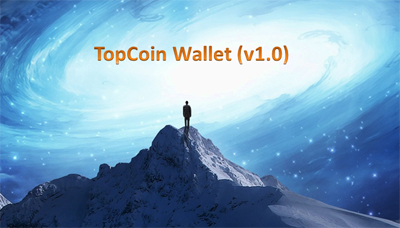
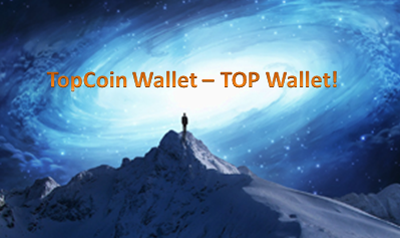
modified:   src/checkpoints.cpp 	modified:   src/qt/overviewpage.cpp 	modified:   src/qt/res/images/wallet.png 	modified:   src/version.h

diff --git a/src/checkpoints.cpp b/src/checkpoints.cpp
@@ -22,7 +22,9 @@ namespace Checkpoints
[7 lines of base64/hex data omitted]
 			;
 
 

diff --git a/src/version.h b/src/version.h
@@ -13,7 +13,7 @@
 
 // These need to be macro's, as version.cpp's voodoo requires it
 #define CLIENT_VERSION_MAJOR       1
-#define CLIENT_VERSION_MINOR       1
+#define CLIENT_VERSION_MINOR       2
 #define CLIENT_VERSION_REVISION    0
 #define CLIENT_VERSION_BUILD       0
 

diff --git a/src/qt/overviewpage.cpp b/src/qt/overviewpage.cpp
@@ -13,7 +13,7 @@
 #include <QPainter>
 
 #define DECORATION_SIZE 64
-#define NUM_ITEMS 3
+#define NUM_ITEMS 6
 
 class TxViewDelegate : public QAbstractItemDelegate
 {
